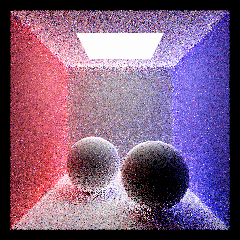
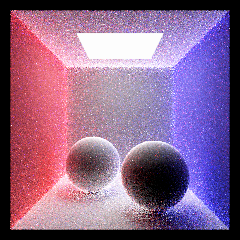
sync files, made minor changes

diff --git a/src/pathtracer/pathtracer.cpp b/src/pathtracer/pathtracer.cpp
@@ -15,42 +15,6 @@ constexpr bool LOG_AREA_LIGHT_RAYS = true;
 static thread_local RNG log_rng(0x15462662); //separate RNG for logging a fraction of rays to avoid changing result when logging enabled
 
 constexpr float RAY_MINIMUM_BOUND = 0.001f;
-
-Spectrum Pathtracer::sample_direct_lighting_task4(RNG &rng, const Shading_Info& hit) {
-	//A3T4: Pathtracer - direct light sampling (basic sampling)
-
-	// This function computes a single-sample Monte Carlo estimate of the _direct_ lighting
-	// at our ray intersection point by sampling the BSDF.
-
-	//NOTE: this function and sample_indirect_lighting() perform very similar tasks.
-
-    // Compute exact amount of light coming from delta lights:
-	//  (these don't need to be sampled)
-    Spectrum radiance = sum_delta_lights(hit);
-	Vec2 custom_dist_bounds(RAY_MINIMUM_BOUND, INFINITY);
-
-	//TODO: ask hit.bsdf to sample an in direction that would scatter out along hit.out_dir
-	Vec3 in_dir_local = hit.bsdf.scatter(rng, hit.out_dir, hit.uv).direction;
-	Spectrum attenuation = hit.bsdf.evaluate(hit.out_dir,in_dir_local, hit.uv);
-
-	//TODO: rotate that direction into world coordinates
-	Vec3 in_dir_world = hit.object_to_world.rotate(in_dir_local);
-
-	//TODO: construct a ray travelling in that direction
-	// NOTE: because we want emitted light only, can use depth = 0 for the ray
-	Ray new_in_ray(hit.pos, in_dir_world, custom_dist_bounds, 0);
-	
-
-	//TODO: trace() the ray to get the emitted light (first part of the return value)
-	Spectrum radiance_new = trace(rng, new_in_ray).first;
-
-	//TODO: weight properly depending on the probability of the sampled scattering direction and add to radiance
-	radiance_new = radiance_new * attenuation ;
-	radiance_new = radiance_new / hit.bsdf.pdf(in_dir_local, hit.out_dir);
-	radiance += radiance_new;
-	return radiance;
-}
-
 Spectrum Pathtracer::sample_direct_lighting_task6(RNG &rng, const Shading_Info& hit) {
 	//A3T6: Pathtracer - direct light sampling (mixture sampling)
 	// TODO (PathTracer): Task 6
@@ -66,6 +30,48 @@ Spectrum Pathtracer::sample_direct_lighting_task6(RNG &rng, const Shading_Info& 
 
 	return radiance;
 }
+
+Spectrum Pathtracer::sample_direct_lighting_task4(RNG &rng, const Shading_Info& hit) {
+	//A3T4: Pathtracer - direct light sampling (basic sampling)
+
+	// This function computes a single-sample Monte Carlo estimate of the _direct_ lighting
+	// at our ray intersection point by sampling the BSDF.
+
+	//NOTE: this function and sample_indirect_lighting() perform very similar tasks.
+
+    // Compute exact amount of light coming from delta lights:
+	//  (these don't need to be sampled)
+    Spectrum radiance = sum_delta_lights(hit);
+	Vec2 custom_dist_bounds(RAY_MINIMUM_BOUND, INFINITY);
+
+	//TODO: ask hit.bsdf to sample an in direction that would scatter out along hit.out_dir
+	Vec3 out_dir_local = hit.out_dir;
+
+	Vec3 in_dir_local = hit.bsdf.scatter(rng, out_dir_local, hit.uv).direction;
+	Vec3 in_dir_world = hit.object_to_world.rotate(in_dir_local);
+
+	Spectrum attenuation = hit.bsdf.evaluate(out_dir_local,in_dir_local, hit.uv);
+
+	//TODO: rotate that direction into world coordinates
+
+	//TODO: construct a ray travelling in that direction
+	// NOTE: because we want emitted light only, can use depth = 0 for the ray
+	Ray new_in_ray(hit.pos, in_dir_world, custom_dist_bounds, 0);
+	// if constexpr (LOG_AREA_LIGHT_RAYS) {
+	// 	if (log_rng.coin_flip(0.00001f)) log_ray(new_in_ray, 100.0f);
+	// }
+	
+
+	//TODO: trace() the ray to get the emitted light (first part of the return value)
+	Spectrum radiance_new = trace(rng, new_in_ray).first;
+
+	//TODO: weight properly depending on the probability of the sampled scattering direction and add to radiance
+	radiance_new = radiance_new * attenuation ;
+	radiance_new = radiance_new / hit.bsdf.pdf(in_dir_local, out_dir_local);
+	radiance += radiance_new;
+	return radiance;
+}
+
 
 Spectrum Pathtracer::sample_indirect_lighting(RNG &rng, const Shading_Info& hit) {
 	//A3T4: path tracing - indirect lighting
@@ -84,7 +90,6 @@ Spectrum Pathtracer::sample_indirect_lighting(RNG &rng, const Shading_Info& hit)
 
 	//TODO: ask hit.bsdf to sample an in direction that would scatter out along hit.out_dir
 	Vec3 out_dir_local = hit.out_dir;
-	Vec3 out_dir_world = hit.object_to_world.rotate(out_dir_local);
 
 	Vec3 in_dir_local = hit.bsdf.scatter(rng, out_dir_local, hit.uv).direction;
 	Vec3 in_dir_world = hit.object_to_world.rotate(in_dir_local);
@@ -96,16 +101,16 @@ Spectrum Pathtracer::sample_indirect_lighting(RNG &rng, const Shading_Info& hit)
 	//TODO: construct a ray travelling in that direction
 	// NOTE: be sure to reduce the ray depth! otherwise infinite recursion is possible
 	Ray new_in_ray(hit.pos, in_dir_world, custom_dist_bounds, hit.depth-1);
-	if constexpr (LOG_AREA_LIGHT_RAYS) {
-		if (log_rng.coin_flip(0.00001f)) log_ray(new_in_ray, 100.0f);
-	}
+	// if constexpr (LOG_AREA_LIGHT_RAYS) {
+	// 	if (log_rng.coin_flip(0.00001f)) log_ray(new_in_ray, 100.0f);
+	// }
 
 	//TODO: trace() the ray to get the reflected light (the second part of the return value)
 	Spectrum radiance = trace(rng, new_in_ray).second;
 
 	//TODO: weight properly depending on the probability of the sampled scattering direction and set radiance
 	radiance = radiance * attenuation;
-	radiance = radiance / hit.bsdf.pdf(in_dir_local, hit.out_dir);
+	radiance = radiance / hit.bsdf.pdf(in_dir_local, out_dir_local);
     return radiance;
 }
 
